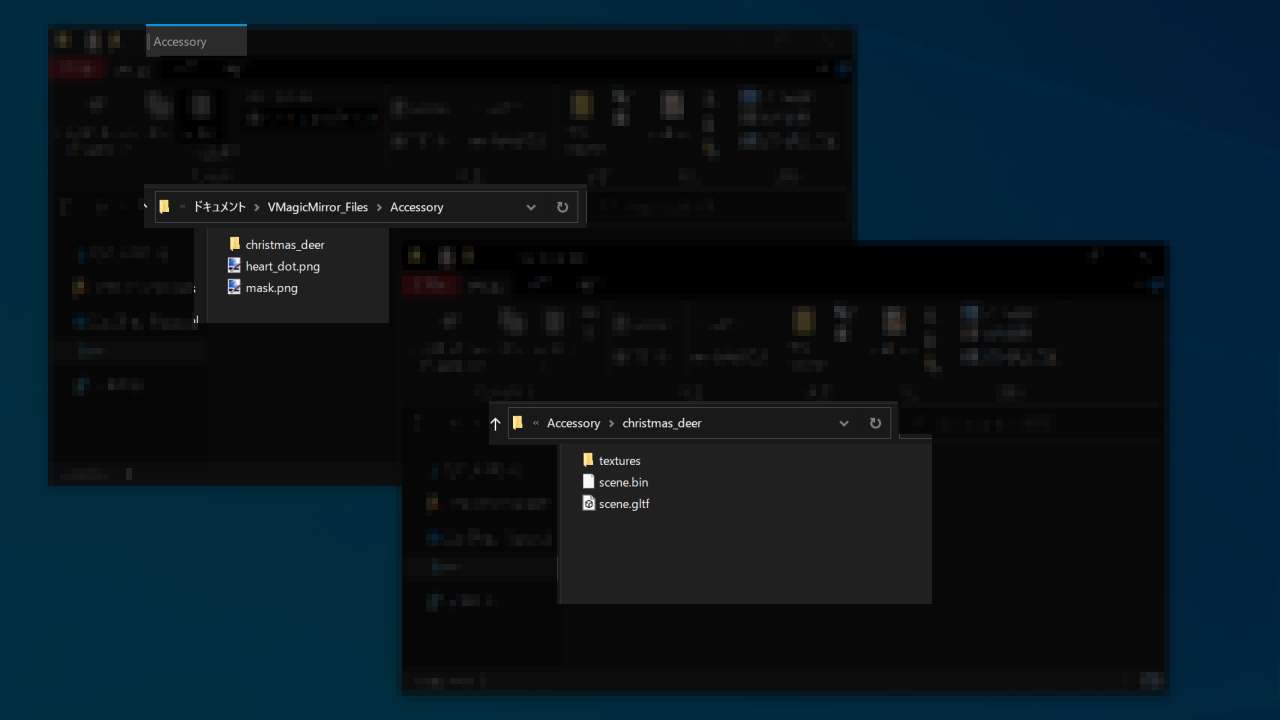
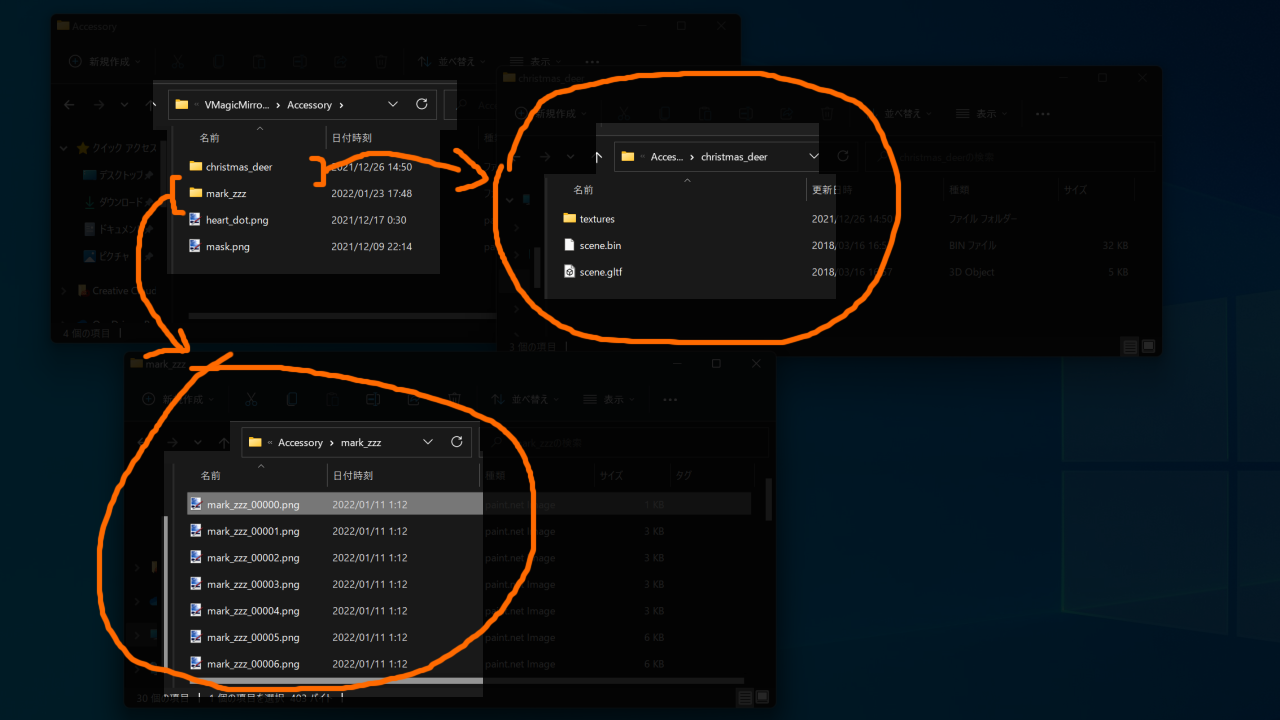
Refer to numbered png image about accessory

diff --git a/docs/pages/english/docs/accessory.md b/docs/pages/english/docs/accessory.md
@@ -26,6 +26,7 @@ Accessory feature supports loading images and 3D models to attach to avatar's bo
 
 - Supported image format is png.
 - Supported 3D model format is glb and glTF.
+- v2.0.1 and later versions support numbered png for animated accessory.
 
 </div>
 
@@ -68,6 +69,7 @@ You can expand and edit each accessories' properties.
 - `Position`: Specify the local position. Also editable by `Free Layout`.
 - `Rotation`: Specify the local rotation. Also editable by `Free Layout`.
 - `Scale`: Specify the scale. Also editable by `Free Layout`.
+- `FPS`: Available on numbered png, to decide how fast to play animation.
 
 </div>
 
